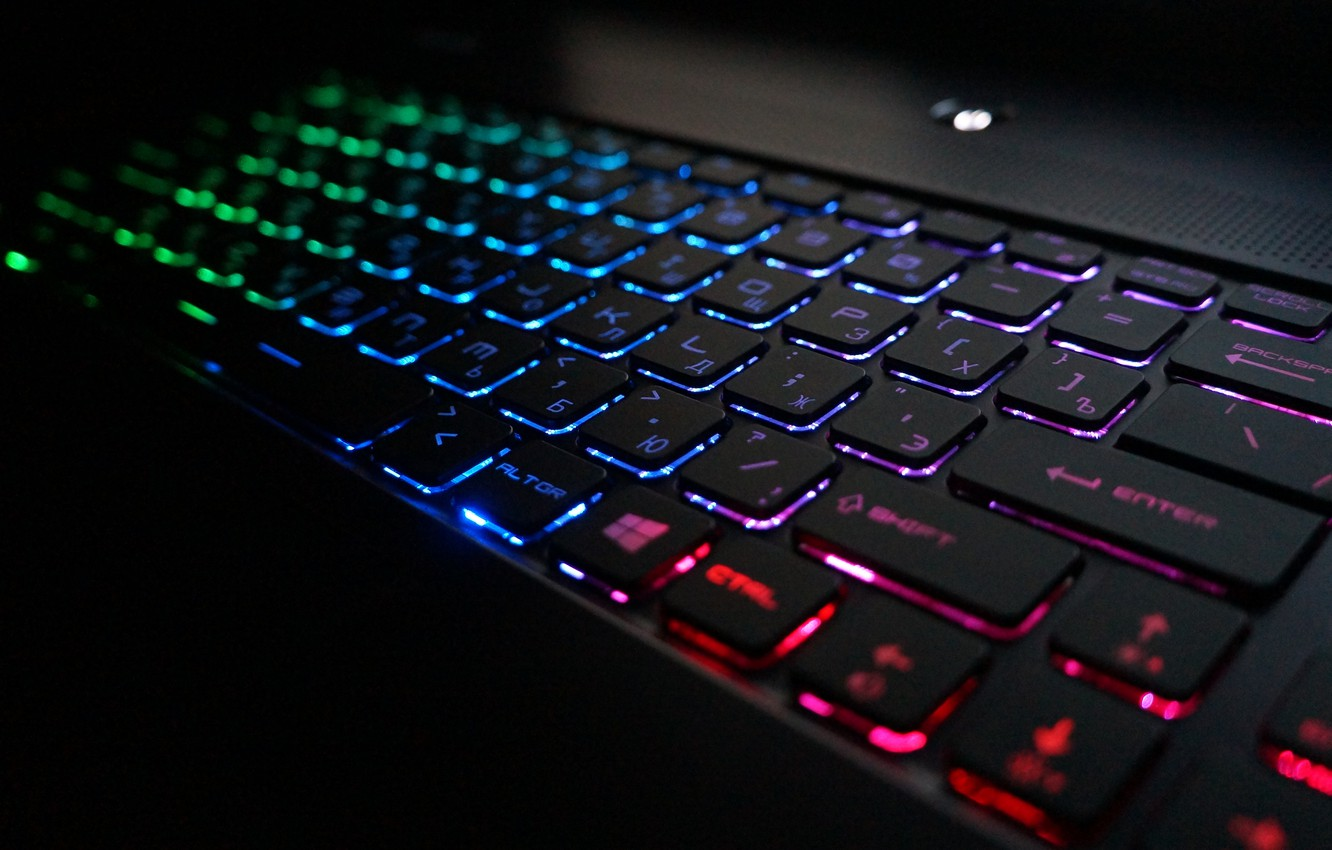
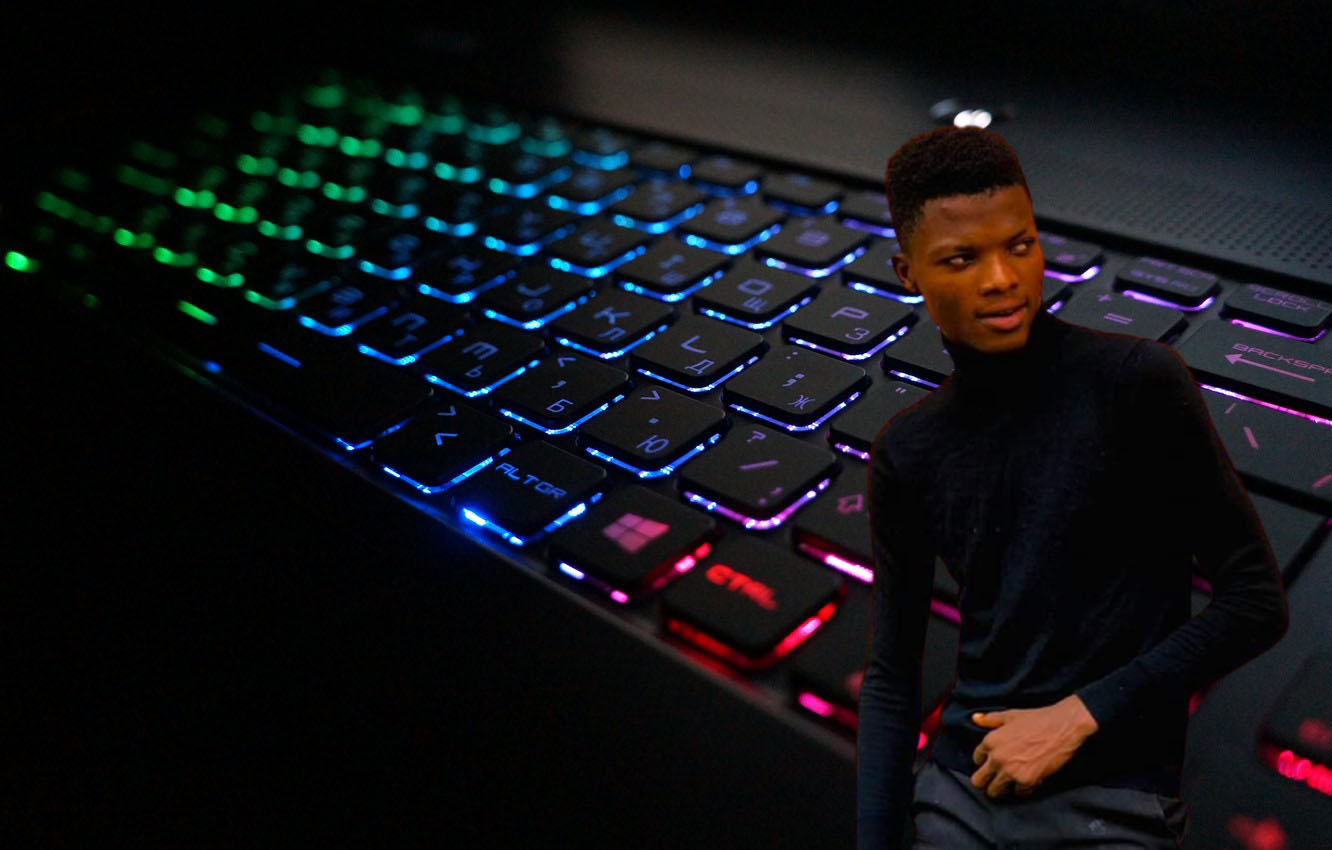
updated

Changed region(s): [[0.6464, 0.1224, 0.985, 1.0]]

diff --git a/index.html b/index.html
@@ -133,7 +133,7 @@
             <h2 class="title">About me</h2>
             <div class="about-content">
                 <div class="column left">
-                    <img src="images/studio.jpg" alt="My Picture">
+                    <img src="images/amos.jpg" alt="My Picture">
                 </div>
                 <div class="column right">
                     <div class="text">I'm a <span>Developer</span></div>
